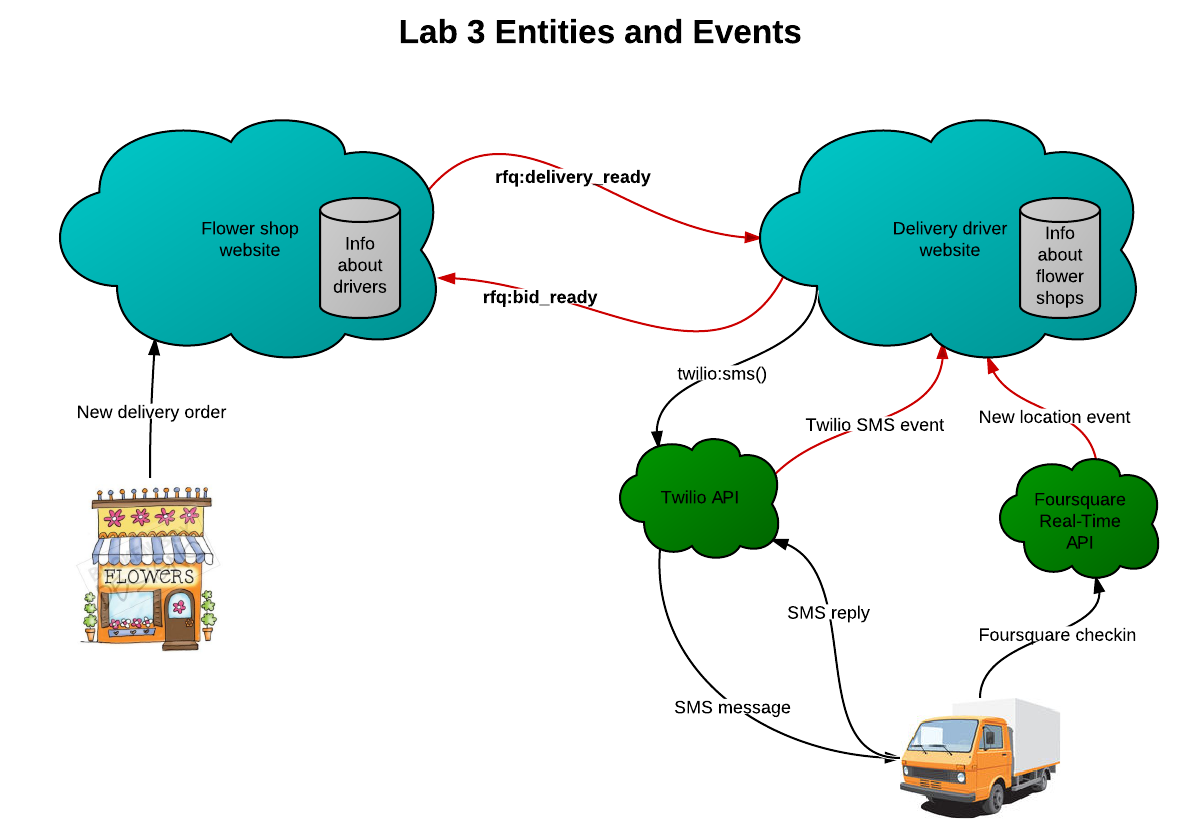
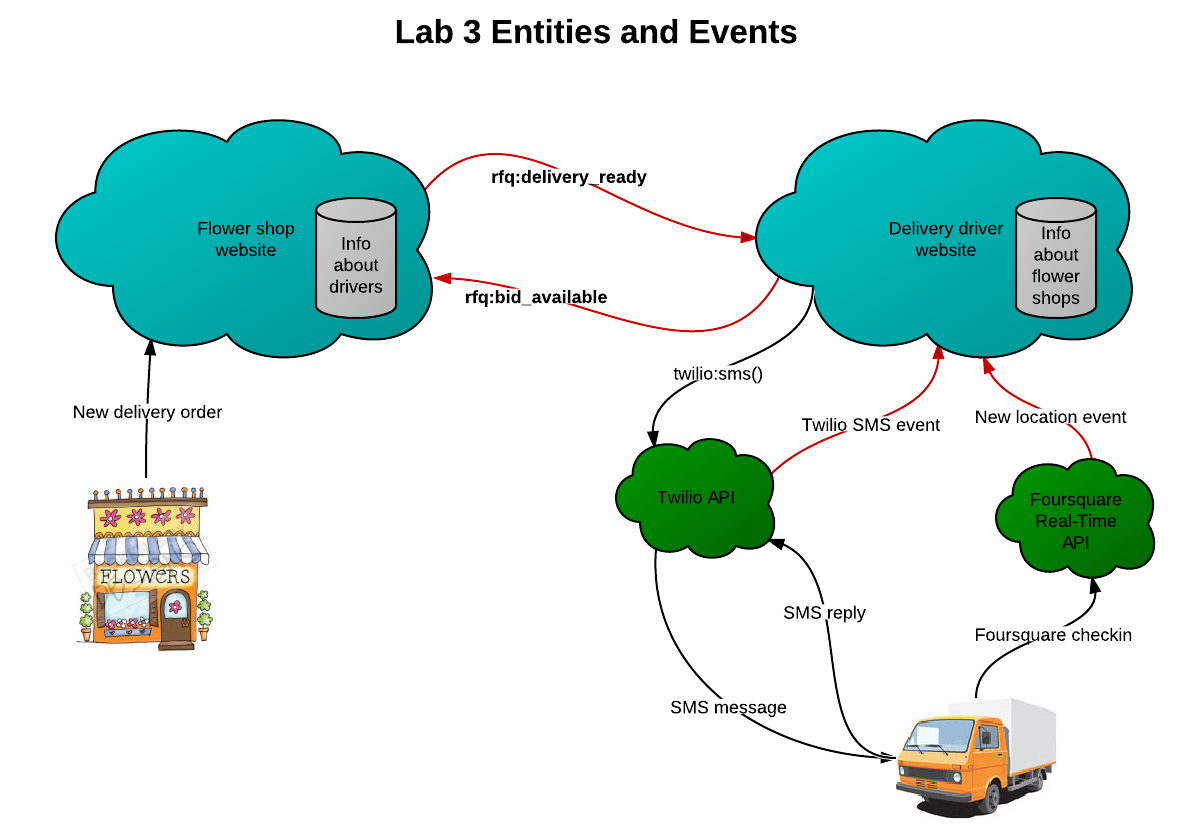
Clarified spec and updated graphic

diff --git a/project/Lab3.md b/project/Lab3.md
@@ -37,7 +37,7 @@ The Website should
   - Store lat-long information about the last checkin for use in determining response to an **rfq:delivery_ready** event.
 - Include an event consumer to listen for **rfq:delivery_ready** events as follows:
   - If the driver is within _n_ miles of the flower shop, submit a bid automatically to the flower shop and send the driver an SMS notification about the details of the bid.
-  - If the bid can't be processed automatically, send the driver an SMS. If the driver responds to the SMS with "bid anyway", submit a bid to the flower shop.
+  - If the driver is outside that radius, then the bid can't be processed automatically. Send the driver an SMS. If the driver responds to the SMS with "bid anyway", submit a bid to the flower shop.
 - Include an event consumer to listen for Twilio SMS notifications, as explained above
 
 ## Signaling events
